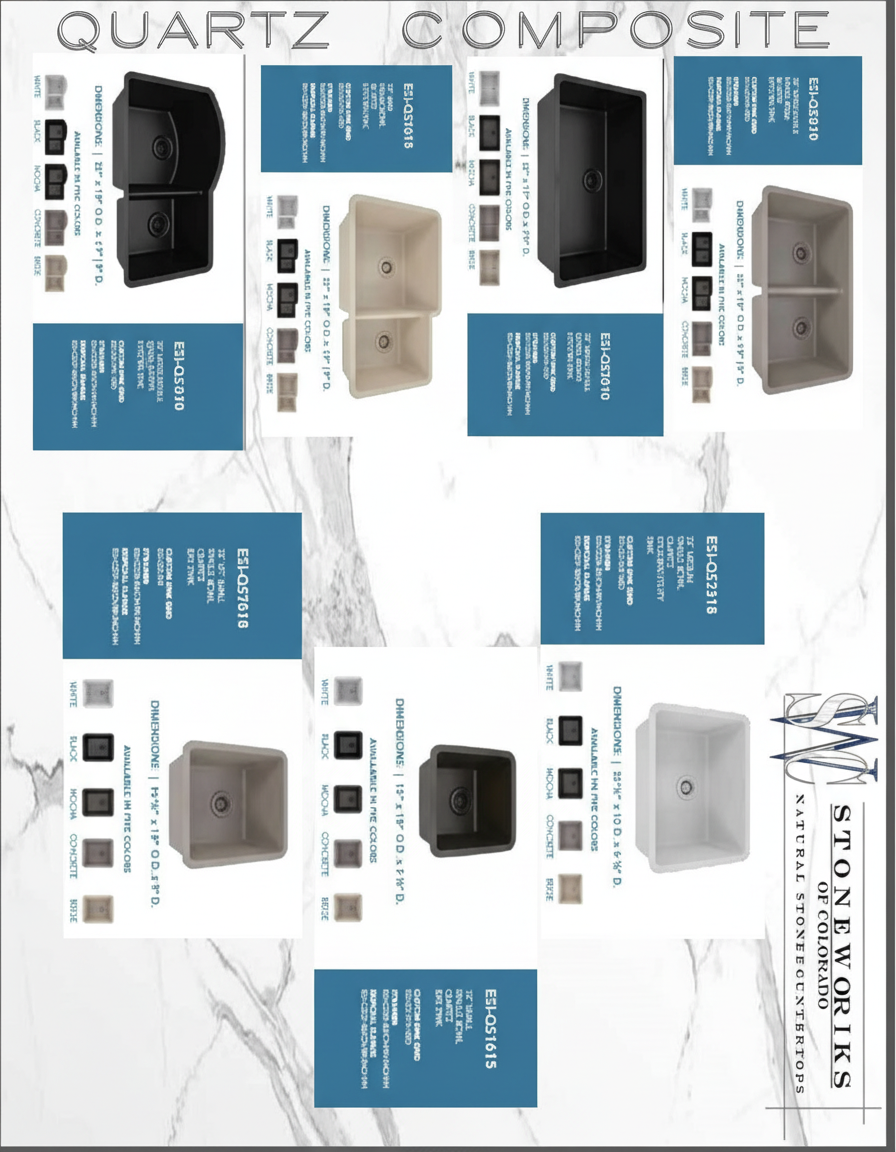
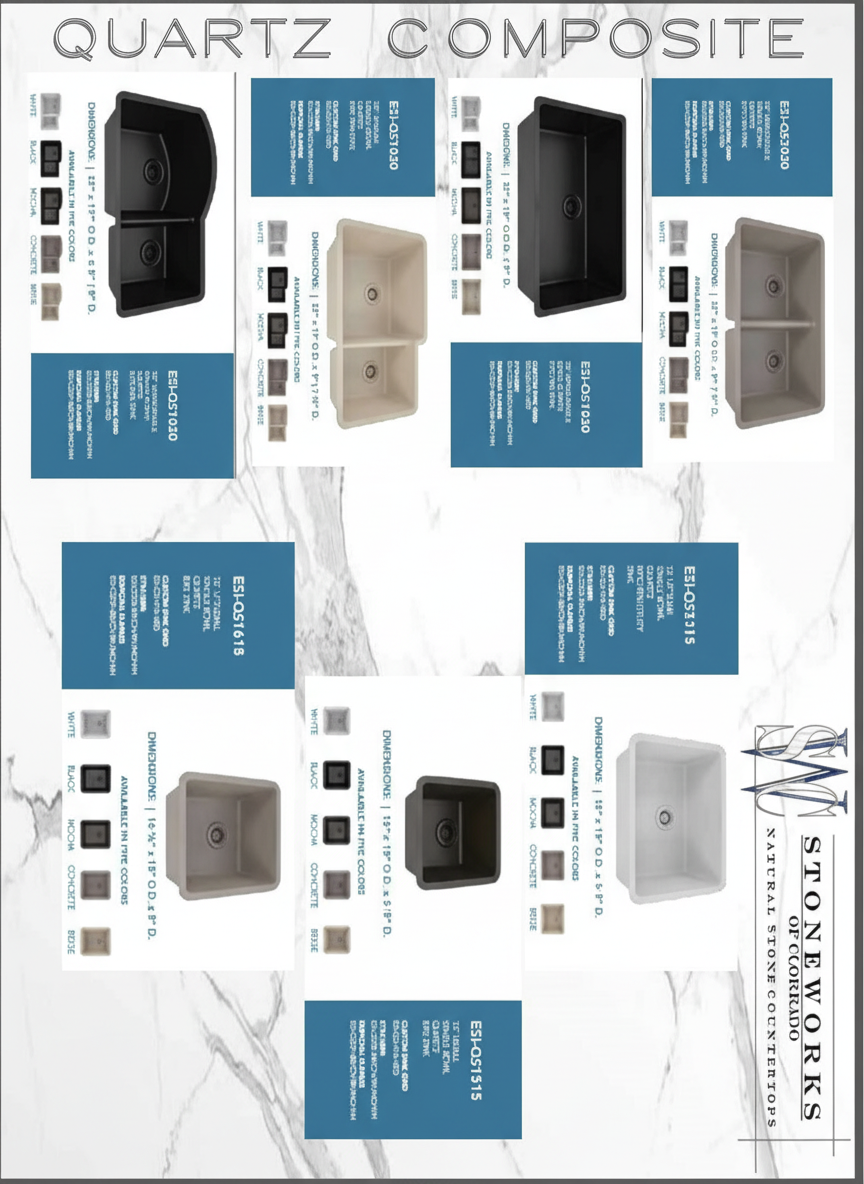
Changes

diff --git a/src/pages/SinkStyles.tsx b/src/pages/SinkStyles.tsx
@@ -13,9 +13,9 @@ const SinkStyles = () => {
   };
 
   const pages = [
-    { src: '/images/documents/sink-styles-1.jpg', rotated: false },
-    { src: '/images/documents/sink-styles-2.jpg', rotated: true },
-    { src: '/images/documents/sink-styles-3.jpg', rotated: false },
+    '/images/documents/sink-styles-1.jpg',
+    '/images/documents/sink-styles-2-fixed.jpg',
+    '/images/documents/sink-styles-3.jpg',
   ];
 
   return (
@@ -51,36 +51,16 @@ const SinkStyles = () => {
         </div>
       </section>
 
-      {/* Images Display */}
       <section className="bg-muted py-8">
         <div className="container mx-auto px-6 lg:px-12 space-y-6">
           {pages.map((page, index) => (
-            <div 
-              key={index} 
-              className={`bg-background rounded-lg shadow-lg ${page.rotated ? 'overflow-visible' : 'overflow-hidden'}`}
-            >
-              {page.rotated ? (
-                // Special container for rotated image
-                <div className="relative w-full" style={{ paddingBottom: '129.4%' }}>
-                  <img
-                    src={page.src}
-                    alt={`Sink Styles Brochure - Page ${index + 1}`}
-                    className="absolute inset-0 w-full h-full object-contain"
-                    style={{ 
-                      transform: 'rotate(90deg)',
-                      transformOrigin: 'center center',
-                    }}
-                    loading="lazy"
-                  />
-                </div>
-              ) : (
-                <img
-                  src={page.src}
-                  alt={`Sink Styles Brochure - Page ${index + 1}`}
-                  className="w-full h-auto"
-                  loading={index === 0 ? 'eager' : 'lazy'}
-                />
-              )}
+            <div key={index} className="bg-background rounded-lg overflow-hidden shadow-lg">
+              <img
+                src={page}
+                alt={`Sink Styles Brochure - Page ${index + 1}`}
+                className="w-full h-auto"
+                loading={index === 0 ? 'eager' : 'lazy'}
+              />
             </div>
           ))}
         </div>
